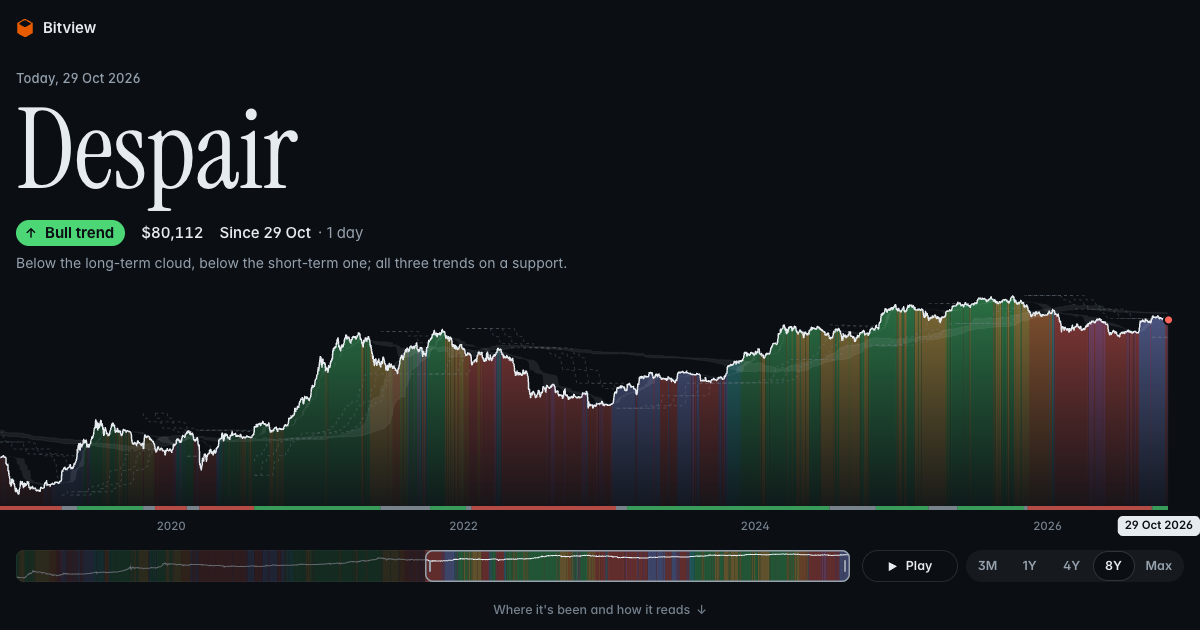
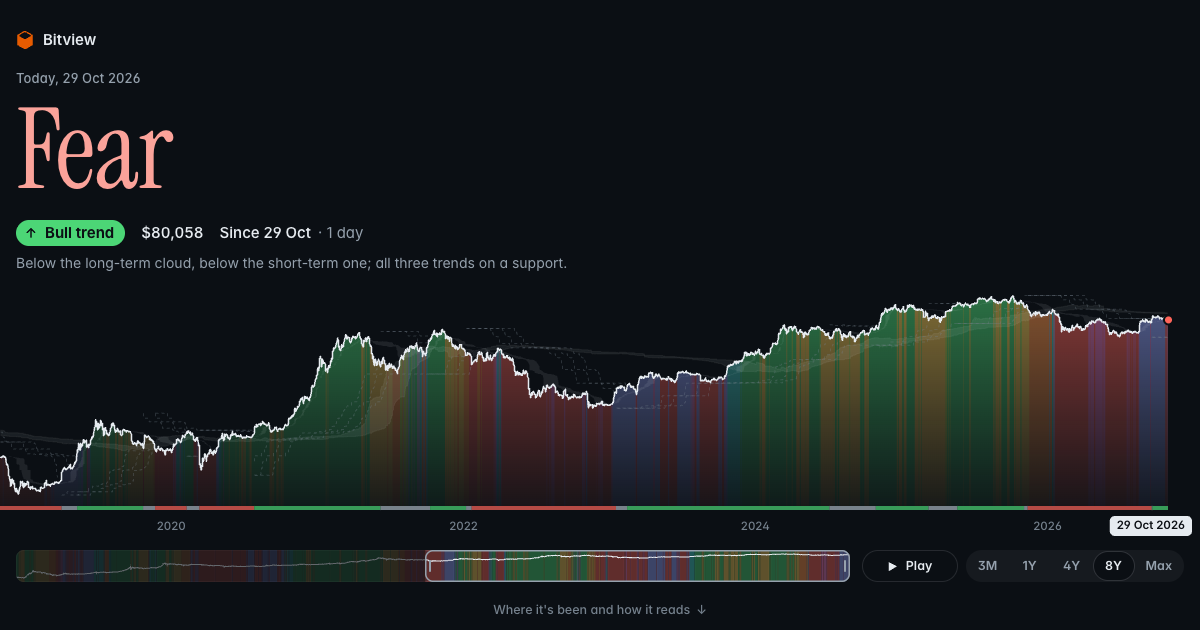
showcases: Compass's nine states named as moods.
The clouds say how each group of holders feels, so each of the compass's nine cells now names that feeling, by who's in profit: Optimism (both in profit), Complacency, Anxiety (long-term holders in profit, recent buyers even or at a loss); Hope, Doubt, Denial (long-term holders about even); Relief, Apathy, Fear (long-term holders at a loss). The market-cycle words traders know; the corners calibrated (they're the most common states, a third and a quarter of all days, too common for Euphoria and Despair). Colours unchanged; the states' ids and colour tokens renamed with them, the trend's three taking theirs from Optimism, Doubt and Fear. The lists say "Time in each mood", the compass's label "nine moods", the page's description (and the front page's copy of it) "nine moods, from Fear to Optimism". Share card and cover made again.

Checks: its script type-checks clean; looked at on the iPhone; home.mjs --check in step.

diff --git a/showcases/compass/index.html b/showcases/compass/index.html
@@ -9,13 +9,13 @@
     <meta name="theme-color" media="(prefers-color-scheme: light)" content="#f4f1ea" />
     <meta name="theme-color" media="(prefers-color-scheme: dark)" content="#0b0f14" />
     <title>Compass · Bitview</title>
-    <meta name="description" content="Where Bitcoin's market stands, day by day since 2011: price against what its long-term and short-term holders paid, and which way their trends point, in nine named states, with how long each has lasted." />
+    <meta name="description" content="Where Bitcoin's market stands, day by day since 2011: price against what its long-term and short-term holders paid, and which way their trends point: nine moods, from Fear to Optimism, and how long each has lasted." />
     <meta property="og:title" content="Compass · Bitview" />
-    <meta property="og:description" content="Where Bitcoin's market stands, day by day since 2011: price against what its long-term and short-term holders paid, and which way their trends point, in nine named states, with how long each has lasted." />
+    <meta property="og:description" content="Where Bitcoin's market stands, day by day since 2011: price against what its long-term and short-term holders paid, and which way their trends point: nine moods, from Fear to Optimism, and how long each has lasted." />
     <meta property="og:image" content="https://bitview.space/compass/og.png" />
     <meta property="og:image:width" content="1200" />
     <meta property="og:image:height" content="630" />
-    <meta property="og:image:alt" content="Compass on a day of Despair with a bull trend: the state's name over eight years of price, each day coloured by its state, the trend's lane under it" />
+    <meta property="og:image:alt" content="Compass on a day of Fear with a bull trend: the state's name over eight years of price, each day coloured by its state, the trend's lane under it" />
     <meta name="twitter:card" content="summary_large_image" />
     <link rel="icon" type="image/svg+xml" href="/assets/favicon/favicon.svg" />
     <style>
@@ -48,15 +48,15 @@
         --cloud-short: light-dark(rgb(20 24 29 / 0.1), rgb(230 235 240 / 0.09));
         /* The nine states: greens where the cycle's up, reds where it's down, the moves against it cooler. (Each as
            text on the page, 4.5:1 and more in either scheme.) */
-        --s-bull: light-dark(oklch(0.5 0.15 150), oklch(0.78 0.18 150));
-        --s-pullback: light-dark(oklch(0.51 0.13 122), oklch(0.84 0.16 122));
-        --s-correction: light-dark(oklch(0.51 0.12 88), oklch(0.86 0.14 88));
-        --s-recovery: light-dark(oklch(0.5 0.1 190), oklch(0.8 0.12 190));
-        --s-crossroads: light-dark(oklch(0.52 0.02 250), oklch(0.76 0.02 250));
-        --s-breakdown: light-dark(oklch(0.52 0.16 52), oklch(0.78 0.16 52));
-        --s-bounce: light-dark(oklch(0.5 0.15 275), oklch(0.75 0.13 275));
-        --s-stalling: light-dark(oklch(0.52 0.17 345), oklch(0.74 0.16 345));
-        --s-bear: light-dark(oklch(0.52 0.19 27), oklch(0.7 0.19 27));
+        --s-optimism: light-dark(oklch(0.5 0.15 150), oklch(0.78 0.18 150));
+        --s-complacency: light-dark(oklch(0.51 0.13 122), oklch(0.84 0.16 122));
+        --s-anxiety: light-dark(oklch(0.51 0.12 88), oklch(0.86 0.14 88));
+        --s-hope: light-dark(oklch(0.5 0.1 190), oklch(0.8 0.12 190));
+        --s-doubt: light-dark(oklch(0.52 0.02 250), oklch(0.76 0.02 250));
+        --s-denial: light-dark(oklch(0.52 0.16 52), oklch(0.78 0.16 52));
+        --s-relief: light-dark(oklch(0.5 0.15 275), oklch(0.75 0.13 275));
+        --s-apathy: light-dark(oklch(0.52 0.17 345), oklch(0.74 0.16 345));
+        --s-fear: light-dark(oklch(0.52 0.19 27), oklch(0.7 0.19 27));
         --sans: Inter, -apple-system, system-ui, sans-serif;
         --serif: "Instrument Serif", ui-serif, Georgia, serif;
         --gutter: max(16px, env(safe-area-inset-left));
@@ -1042,7 +1042,7 @@
         <div class="atlas">
           <div>
             <div class="compass">
-              <svg id="compass" viewBox="-40 -40 680 890" role="img" aria-label="The nine states as a compass, the three trends under it"></svg>
+              <svg id="compass" viewBox="-40 -40 680 890" role="img" aria-label="The nine moods as a compass, the three trends under it"></svg>
             </div>
             <div class="scrub">
               <canvas id="strip" aria-hidden="true"></canvas>
@@ -1056,7 +1056,7 @@
           </div>
           <div class="shares">
             <div>
-              <h3>Time in each state</h3>
+              <h3>Time in each mood</h3>
               <ol id="states"></ol>
             </div>
             <div class="trends">
@@ -1112,23 +1112,23 @@
       /** Where price is against a cloud: 1 above, 0 inside, -1 below. @typedef {1 | 0 | -1} Side */
       /** The nine, by the cycle's side (the long-term cloud) then the moment's (the short-term): north the cycle up. */
       const STATES = [
-        { id: "bull", name: "Euphoria", cycle: 1, local: 1 },
-        { id: "pullback", name: "Pullback", cycle: 1, local: 0 },
-        { id: "correction", name: "Correction", cycle: 1, local: -1 },
-        { id: "recovery", name: "Recovery", cycle: 0, local: 1 },
-        { id: "crossroads", name: "Crossroads", cycle: 0, local: 0 },
-        { id: "breakdown", name: "Breakdown", cycle: 0, local: -1 },
-        { id: "bounce", name: "Bounce", cycle: -1, local: 1 },
-        { id: "stalling", name: "Stalling", cycle: -1, local: 0 },
-        { id: "bear", name: "Despair", cycle: -1, local: -1 },
+        { id: "optimism", name: "Optimism", cycle: 1, local: 1 },
+        { id: "complacency", name: "Complacency", cycle: 1, local: 0 },
+        { id: "anxiety", name: "Anxiety", cycle: 1, local: -1 },
+        { id: "hope", name: "Hope", cycle: 0, local: 1 },
+        { id: "doubt", name: "Doubt", cycle: 0, local: 0 },
+        { id: "denial", name: "Denial", cycle: 0, local: -1 },
+        { id: "relief", name: "Relief", cycle: -1, local: 1 },
+        { id: "apathy", name: "Apathy", cycle: -1, local: 0 },
+        { id: "fear", name: "Fear", cycle: -1, local: -1 },
       ];
       /** A state's index from its two sides. */
       const stateOf = (/** @type {number} */ cycle, /** @type {number} */ local) => (1 - cycle) * 3 + (1 - local);
       /** The trends' three: all three on a support, split, all three on a resistance; each in its corner state's colour. */
       const TRENDS = [
-        { name: "Bull", color: "bull", icon: '<path d="M8 13V3M3.5 7.5 8 3l4.5 4.5" />' },
-        { name: "Limbo", color: "crossroads", icon: '<path d="M3 8h10" />' },
-        { name: "Bear", color: "bear", icon: '<path d="M8 3v10M3.5 8.5 8 13l4.5-4.5" />' },
+        { name: "Bull", color: "optimism", icon: '<path d="M8 13V3M3.5 7.5 8 3l4.5 4.5" />' },
+        { name: "Limbo", color: "doubt", icon: '<path d="M3 8h10" />' },
+        { name: "Bear", color: "fear", icon: '<path d="M8 3v10M3.5 8.5 8 13l4.5-4.5" />' },
       ];
       const trendIcon = (/** @type {number} */ t) => `<svg viewBox="0 0 16 16" fill="none" stroke="currentColor" stroke-width="1.8" stroke-linecap="round" stroke-linejoin="round" aria-hidden="true">${TRENDS[t].icon}</svg>`;
       const SIDE_WORDS = { 1: "above", 0: "inside", [-1]: "below" };
@@ -2074,7 +2074,7 @@
           const { i, t } = /** @type {SVGElement} */ (cell).dataset;
           cell.classList.toggle("on", i !== undefined ? Number(i) === d.state[day] : Number(t) === d.trend[day]);
         }
-        compass.setAttribute("aria-label", `The nine states as a compass, the three trends under it: ${dated(day)}, ${STATES[d.state[day]].name}, ${TRENDS[d.trend[day]].name.toLowerCase()} trend, its path over the year before.`);
+        compass.setAttribute("aria-label", `The nine moods as a compass, the three trends under it: ${dated(day)}, ${STATES[d.state[day]].name}, ${TRENDS[d.trend[day]].name.toLowerCase()} trend, its path over the year before.`);
       }
 
       // ── The strip and its slider, under the compass: every day from the first to today, a playhead on the day shown ──

diff --git a/showcases/index.html b/showcases/index.html
@@ -2285,7 +2285,7 @@
         "/globe/": { "name": "Globe", "about": "Where Bitcoin's blocks are mined: every block by its mining pool's home country, live on a globe, and how that map has moved since 2011." },
         "/trail/": { "name": "The Satoshi Trail", "about": "A moving 2.5D terrain view of Bitcoin's UTXO realized price distribution." },
         "/stack/": { "name": "Stack", "about": "Dollar-cost averaging that saves from each all-time high and buys bitcoin from the cycle's floor: what any plan since 2010 would be worth, beside the plain plan buying the same each time, and how every start and length turned out." },
-        "/compass/": { "name": "Compass", "about": "Where Bitcoin's market stands, day by day since 2011: price against what its long-term and short-term holders paid, and which way their trends point, in nine named states, with how long each has lasted." },
+        "/compass/": { "name": "Compass", "about": "Where Bitcoin's market stands, day by day since 2011: price against what its long-term and short-term holders paid, and which way their trends point: nine moods, from Fear to Optimism, and how long each has lasted." },
         "/calendar/": { "name": "Calendar", "about": "Every day of every year since 2009, the mining pool that found the most Bitcoin blocks, and every block of any day." },
         "/series/": { "name": "Series", "about": "Every series Bitview computes from the chain, browsed like files: what each one is, its intervals, its history drawn, and how to fetch it." },
         "/logs/": { "name": "Logs", "about": "This Bitview server, live: requests a minute, response times, refusals and failures, each route, the last block, and every line it logs." },
